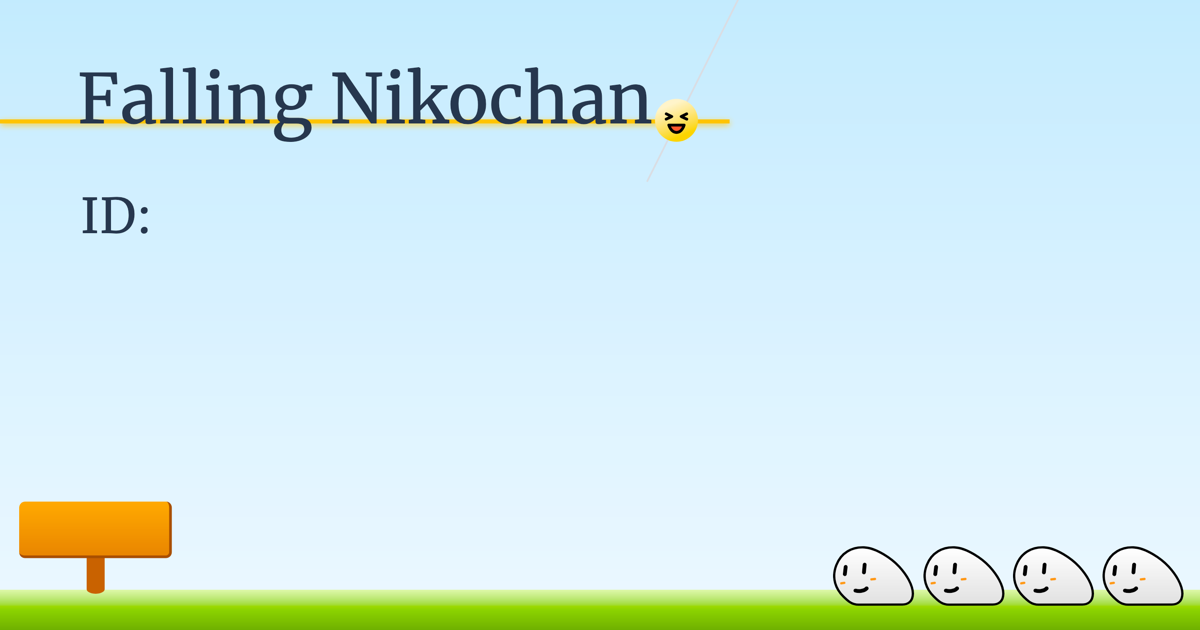
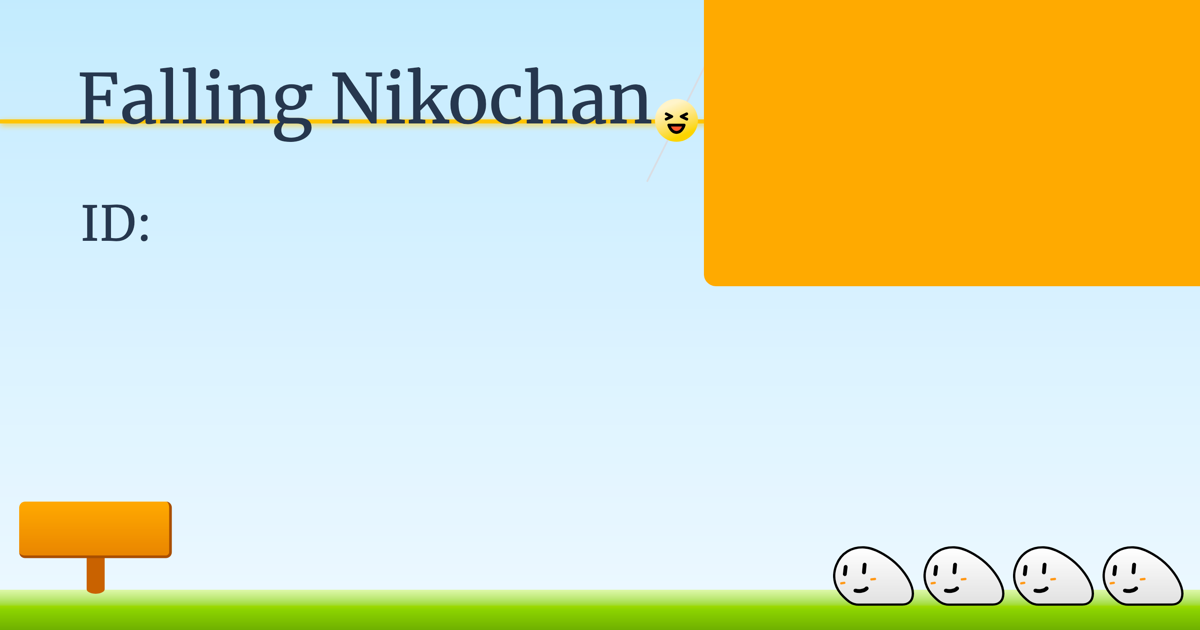
OGPに載せるサムネイルの周りに枠を追加

Changed region(s): [[0.5858, 0.0, 1.0, 0.4825], [0.0617, 0.3016, 0.1233, 0.3921]]

diff --git a/frontend/app/[locale]/ogTemplate/share/clientPage.tsx b/frontend/app/[locale]/ogTemplate/share/clientPage.tsx
@@ -7,6 +7,7 @@ import RhythmicalSlime from "@/play/rhythmicalSlime";
 import { useTranslations } from "next-intl";
 import { stepZero } from "@falling-nikochan/chart";
 import { useEffect, useState } from "react";
+import { levelBgColors } from "@/common/levelColors";
 
 export default function OGTemplate() {
   const t = useTranslations("share");
@@ -30,19 +31,26 @@ export default function OGTemplate() {
       />
       <div
         className={
-          "absolute top-0 right-0 w-[480px] aspect-[16/9] bg-gray-500 " +
-          (showDummyData ? "" : "invisible")
+          "absolute top-0 right-0 w-124 pl-4 pb-4 pt-0 pr-0 rounded-bl-xl " +
+          levelBgColors[1]
         }
       >
-        Thumbnail Here
+        <div
+          className={
+            "w-full aspect-[16/9] bg-gray-500 " +
+            (showDummyData ? "" : "invisible")
+          }
+        >
+          Thumbnail Here
+        </div>
       </div>
-      <div className="pl-20 mt-48 text-5xl ">
+      <div className="pl-20 mt-50 text-5xl ">
         <span className="inline-block w-24 ">ID:</span>
         <span className="inline-block ">{showDummyData && 444444}</span>
       </div>
       <div
         className={
-          "pl-20 mt-10 text-7xl font-title " +
+          "pl-20 mt-12 text-7xl font-title " +
           "w-full text-nowrap text-ellipsis overflow-x-clip overflow-y-visible " +
           (showDummyData ? "" : "invisible")
         }
@@ -51,7 +59,7 @@ export default function OGTemplate() {
       </div>
       <div
         className={
-          "pl-20 mt-6 text-5xl font-title " +
+          "pl-20 mt-4 text-5xl font-title " +
           "w-full text-nowrap text-ellipsis overflow-x-clip overflow-y-visible " +
           (showDummyData ? "" : "invisible")
         }
@@ -60,14 +68,12 @@ export default function OGTemplate() {
       </div>
       <div
         className={
-          "pl-20 mt-6 font-title text-5xl " +
+          "pl-20 mt-4 font-title text-5xl " +
           "w-full text-nowrap text-ellipsis overflow-x-clip overflow-y-visible " +
           (showDummyData ? "" : "invisible")
         }
       >
-        <span
-          className="font-main-ui text-4xl mr-5 "
-        >
+        <span className="font-main-ui text-4xl mr-5 ">
           {t("chartCreator")}:
         </span>
         <span>

diff --git a/route/src/og.tsx b/route/src/og.tsx
@@ -98,7 +98,7 @@ const ogApp = new Hono<{ Bindings: Bindings }>({ strict: false }).get(
             <div
               style={{
                 paddingLeft: 80 + 96,
-                marginTop: 192,
+                marginTop: 200,
                 // 5xl
                 fontSize: 48,
                 lineHeight: 1,
@@ -110,7 +110,7 @@ const ogApp = new Hono<{ Bindings: Bindings }>({ strict: false }).get(
             <div
               style={{
                 paddingLeft: 80,
-                marginTop: 40,
+                marginTop: 48,
                 width: 2147483647,
                 // 困ったことにellipsisが効かない
                 // width: "100%",
@@ -129,7 +129,7 @@ const ogApp = new Hono<{ Bindings: Bindings }>({ strict: false }).get(
             <div
               style={{
                 paddingLeft: 80,
-                marginTop: 24,
+                marginTop: 16,
                 width: 2147483647,
                 // 5xl
                 fontSize: 48,
@@ -144,7 +144,7 @@ const ogApp = new Hono<{ Bindings: Bindings }>({ strict: false }).get(
                 display: "flex",
                 alignItems: "baseline",
                 paddingLeft: 80,
-                marginTop: 24,
+                marginTop: 16,
                 width: 2147483647,
                 // 5xl
                 fontSize: 48,
